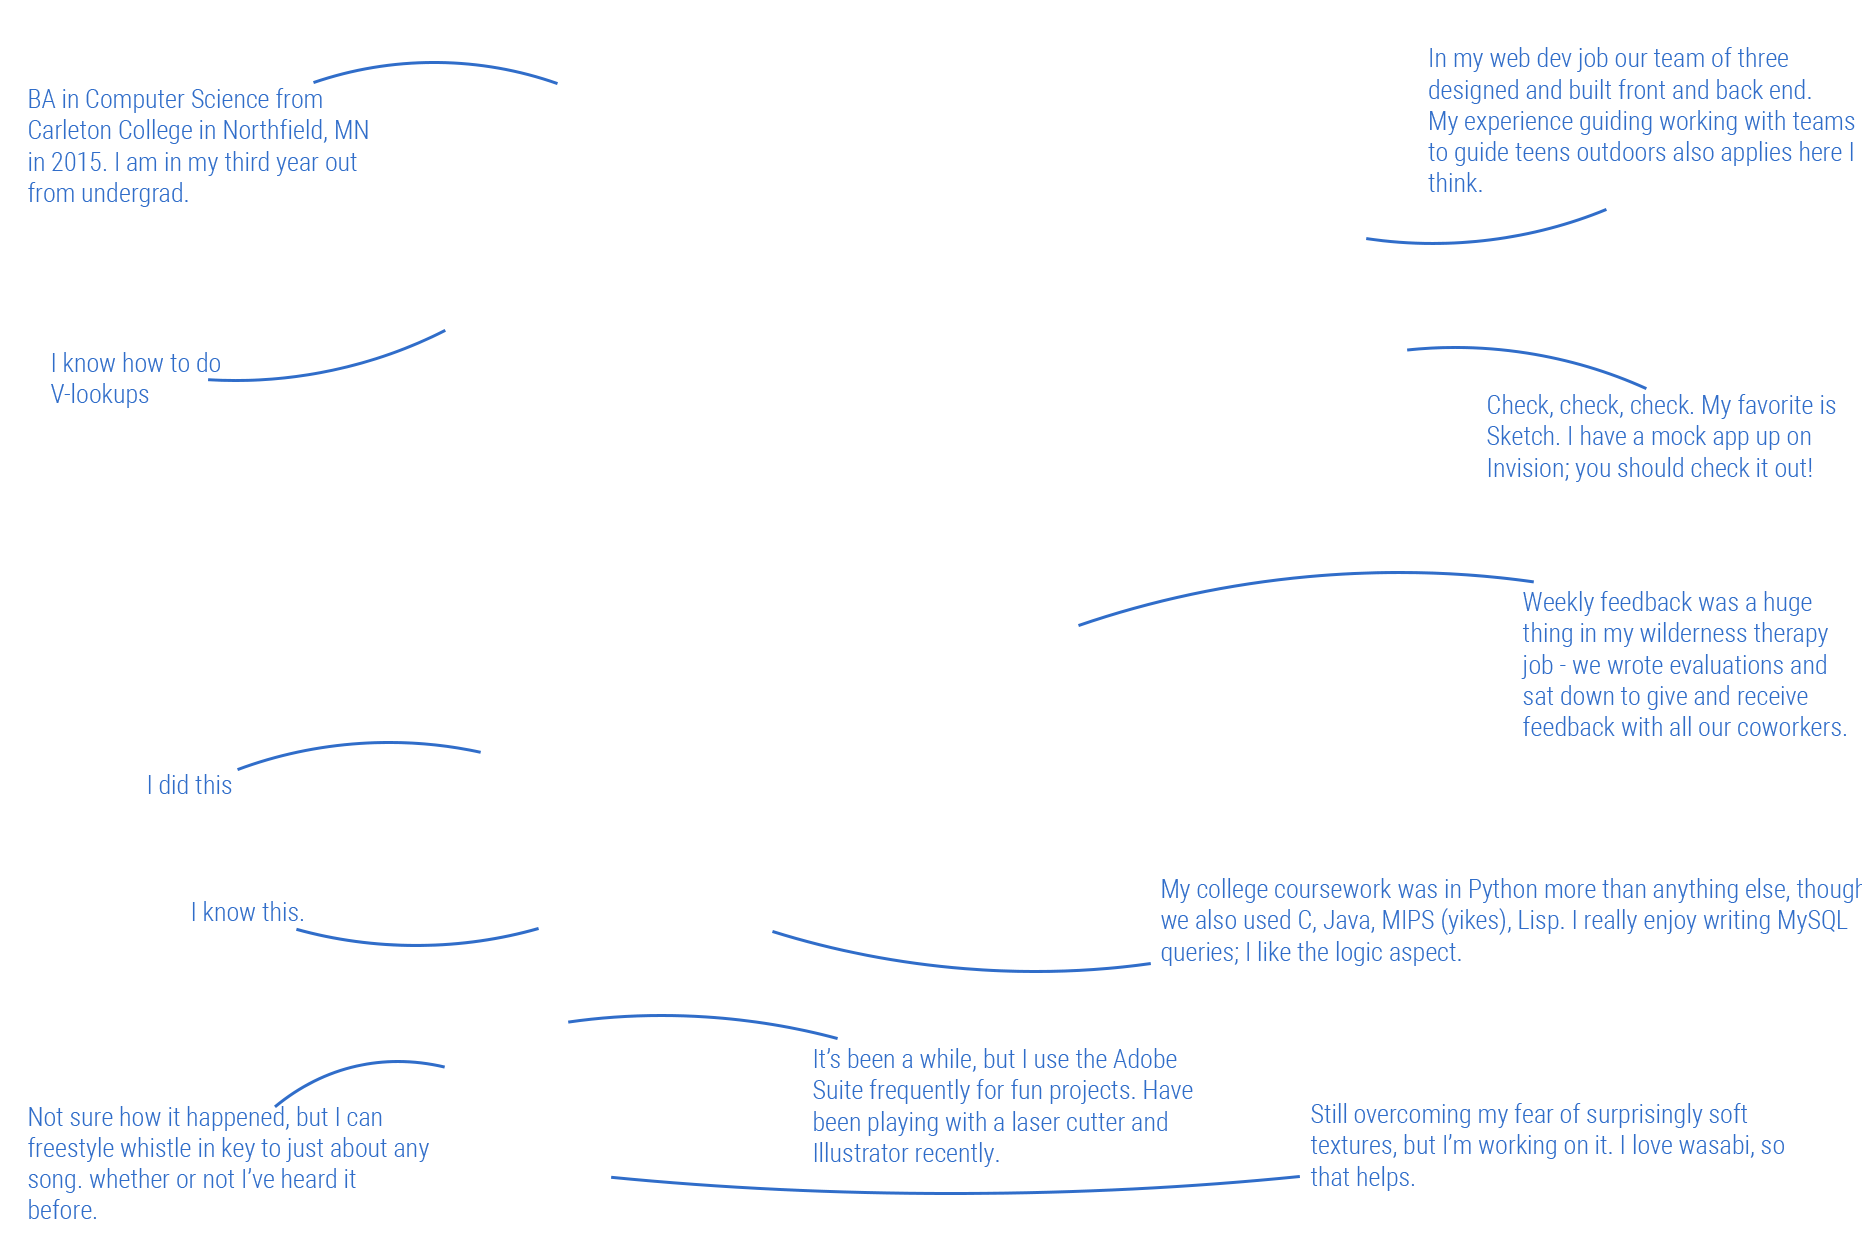
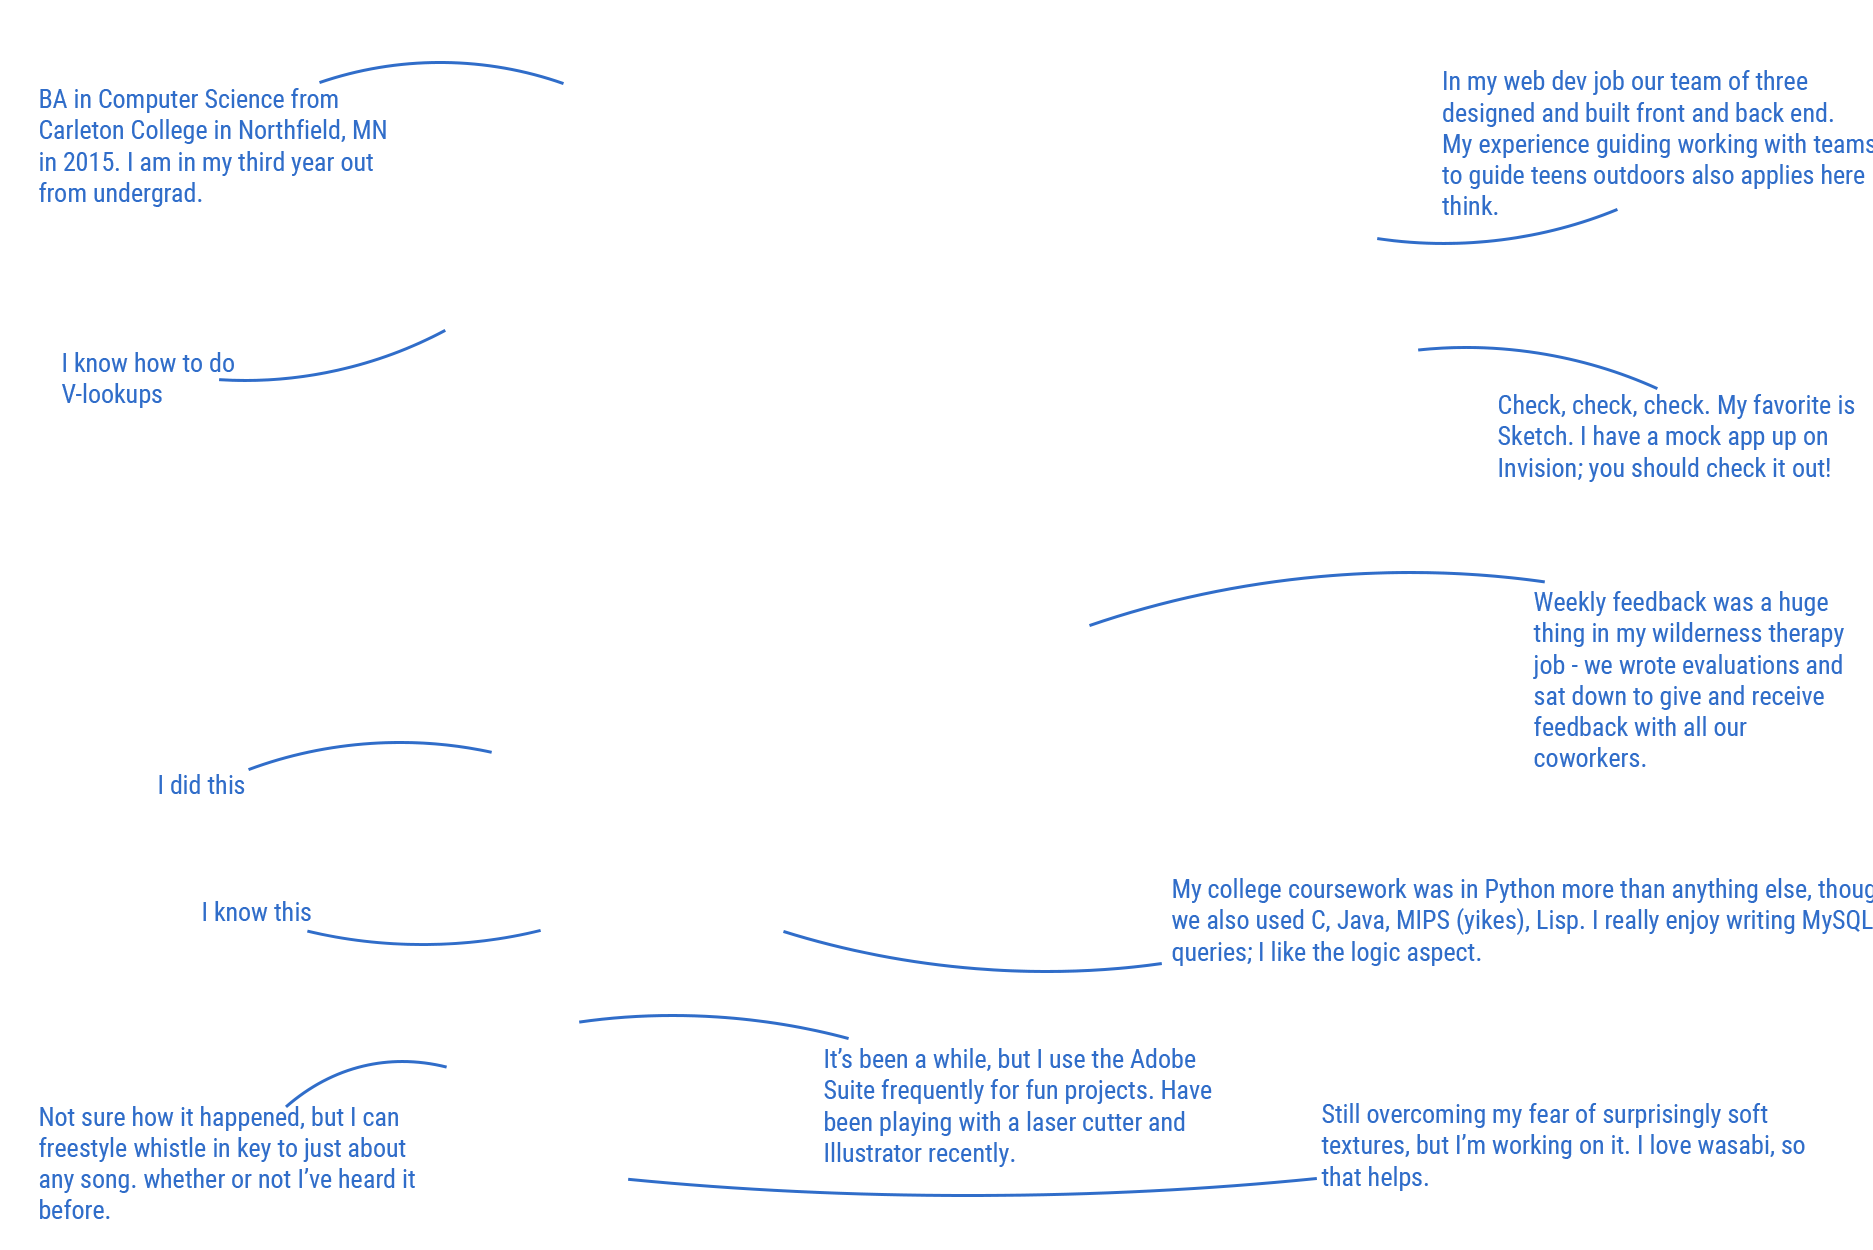
offset by 2px because it's not lining up

diff --git a/_pages/05_boost.md b/_pages/05_boost.md
@@ -3,6 +3,10 @@ layout: blank
 title: 
 permalink: /boost/
 ---
+<p>
+I'm pretty excited about this position, so I made your job easier. Let's talk more!
+</p>
+
 <div class="boost-container">
     <div class="boost-qualifications image"></div>
     <div class="boost-key image"></div>
@@ -39,6 +43,7 @@ permalink: /boost/
         background-size: 100%;
         background-repeat: no-repeat;
         opacity:1;
+        top:12px;
     }
     .boost-mask{
         background: url("/assets/boostmask.png");
